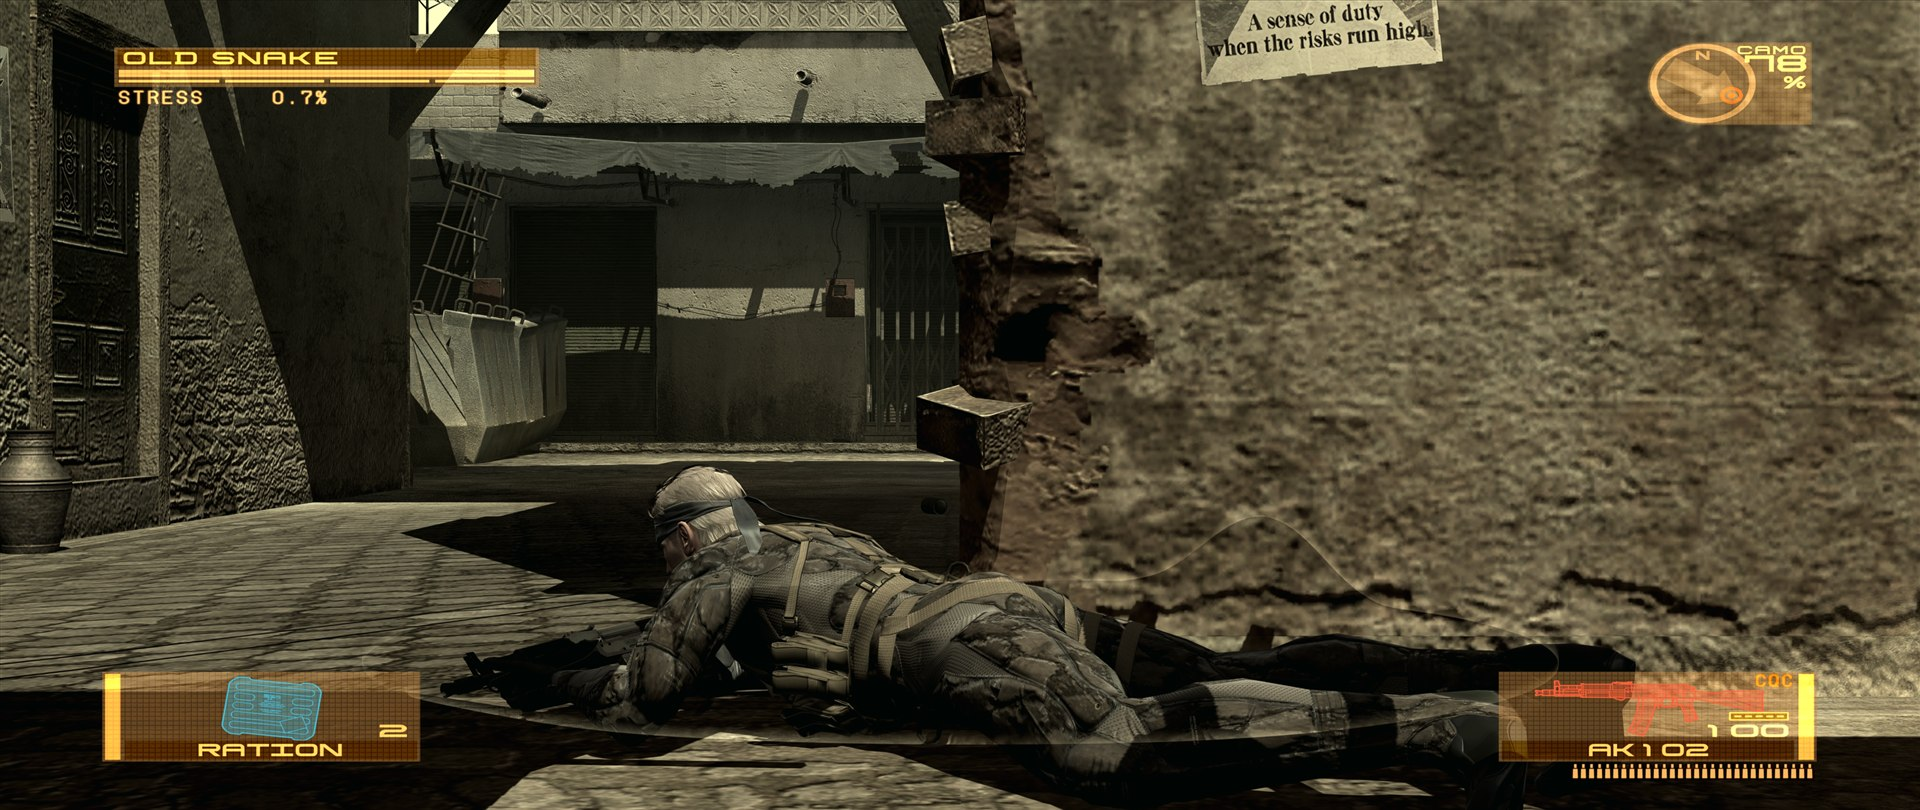
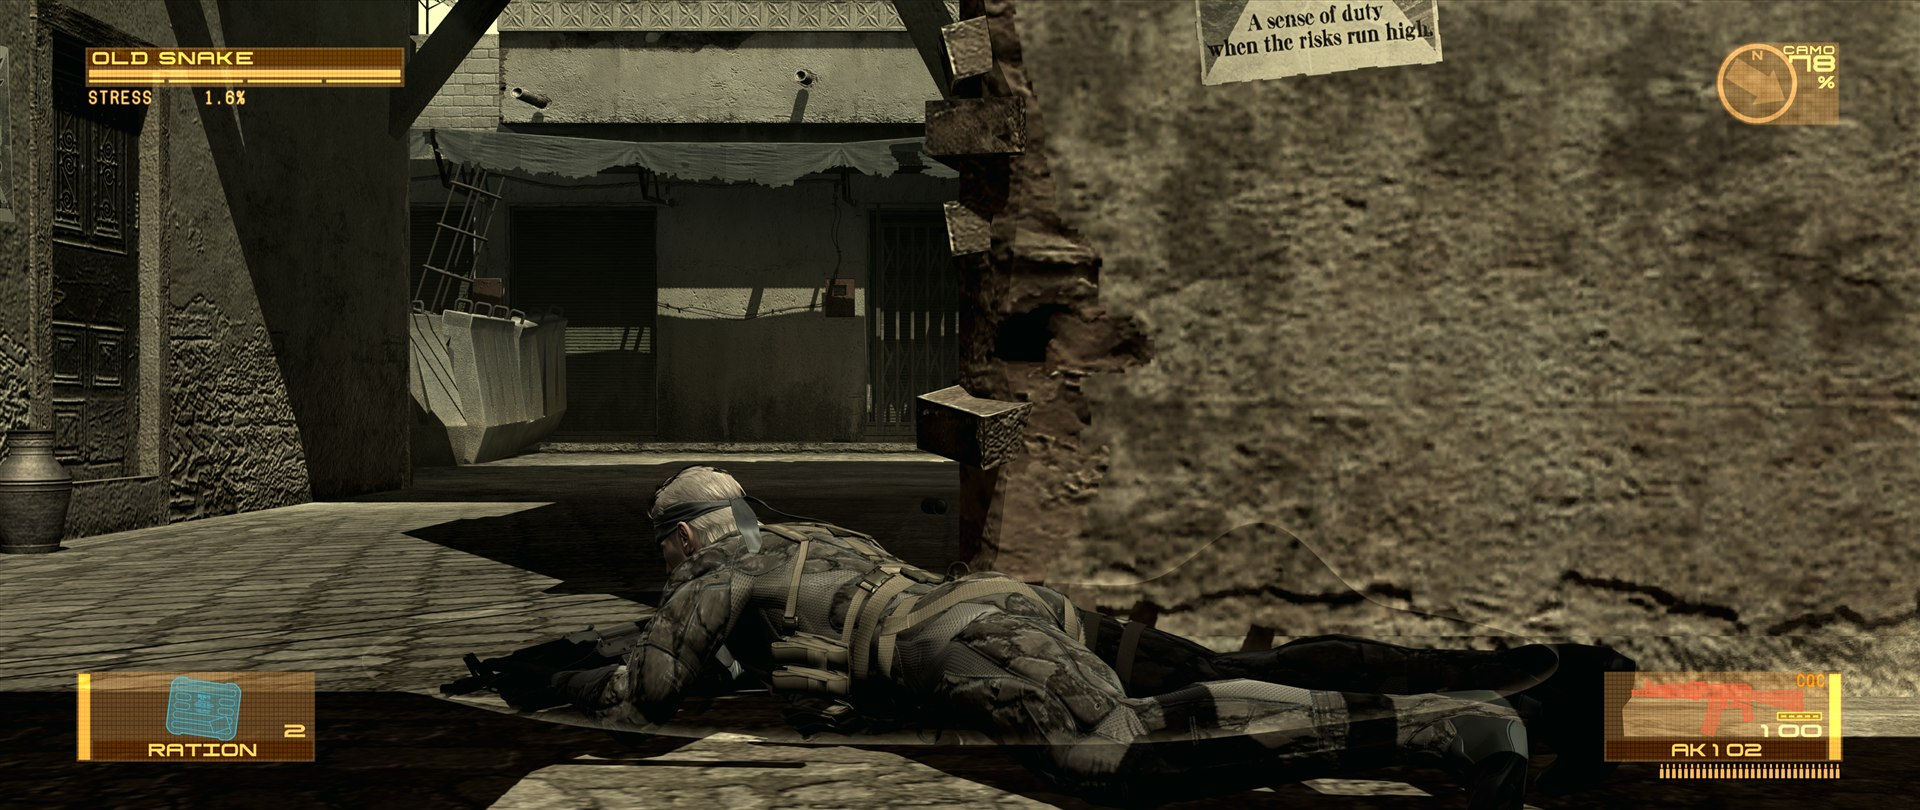
README captures retaken with the HUD fix on; lab mode honours the Ultrawide HUD key
The first set was shot with a lab file that had only the shipping key, which lab
mode ignored, so the HUD was stretched. ReadLabKeys now derives the layers from
Ultrawide HUD before the per-layer keys override it.

diff --git a/asi/src/core/config.cpp b/asi/src/core/config.cpp
@@ -190,8 +190,22 @@ namespace mgs4e::config
             Read(ini, Graphics, "Log Viewports", RP::bLogViewports);
             Read(ini, Graphics, "Log UI Layout", RP::bLogUiLayout);
 
-            // The aspect layers individually, for the harness. Layer 1 is Fix UI Aspect, the
-            // corner spread is layer 2; the runtime anchoring is the earlier, abandoned layer 2.
+            // The shipping "Ultrawide HUD" choice first, so a lab file written like a user file
+            // gets the fix the way a user file does. Without this a lab boot silently ran with
+            // the stretched HUD whenever the file had no per-layer keys (2026-09-04: three
+            // README captures had to be retaken).
+            {
+                std::string hud;
+                Read(ini, Graphics, UltrawideHud, hud);
+                const bool expanded = hud == UltrawideHud_Expanded;
+                const bool centered = hud == UltrawideHud_Centered;
+                AspectRatio::bFixUiAspect = expanded || centered;
+                AspectRatio::bAspectPoolSpread = expanded;
+            }
+
+            // The aspect layers individually, for the harness; these override the choice above.
+            // Layer 1 is Fix UI Aspect, the corner spread is layer 2; the runtime anchoring is
+            // the earlier, abandoned layer 2.
             Read(ini, Graphics, "Fix UI Aspect", AspectRatio::bFixUiAspect);
             Read(ini, Graphics, "Fix UI Aspect Corners", AspectRatio::bFixUiAspectCorners);
             Read(ini, Graphics, "Aspect Runtime Anchoring", AspectRatio::bAspectRuntimeAnchoring);
